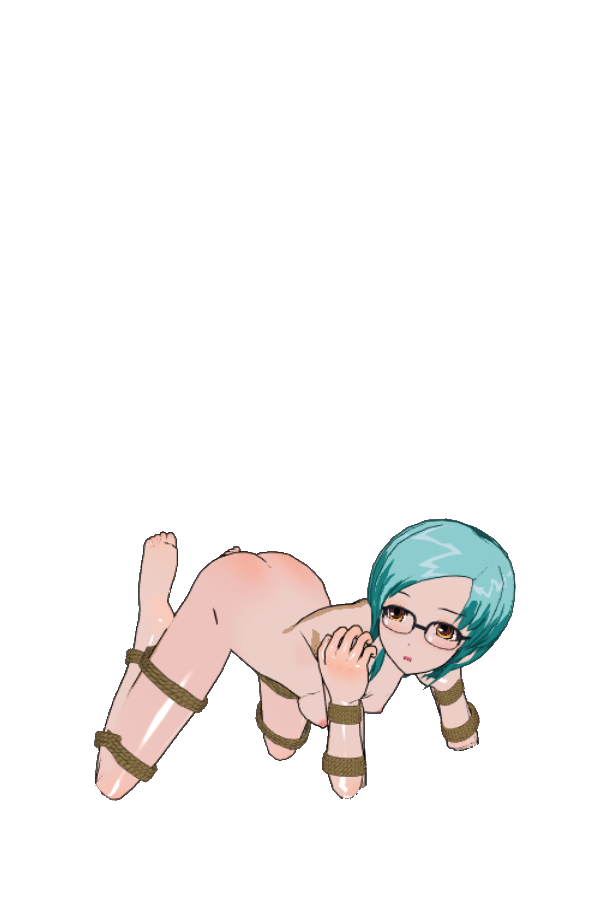
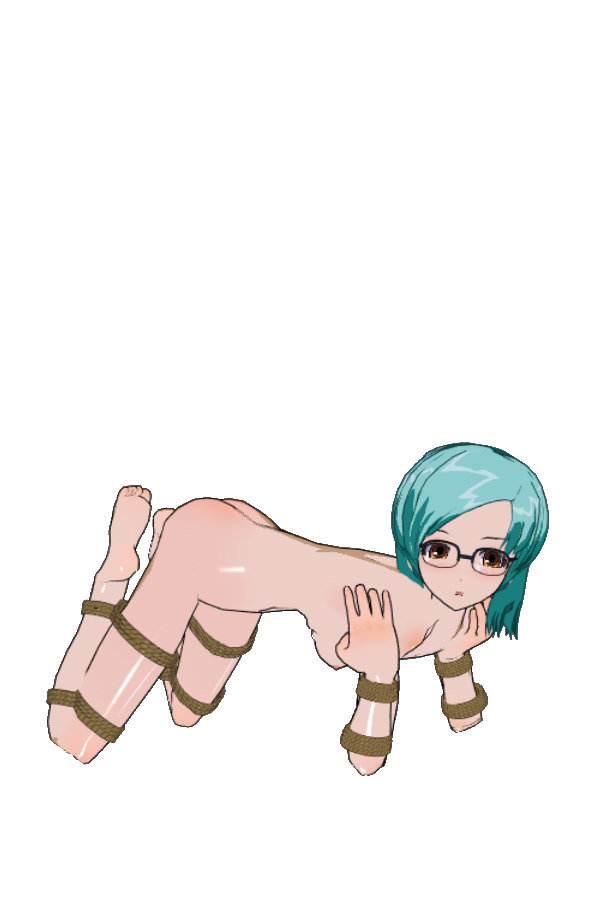
Chapter 10 - More Jennifer + Sidney
Chapter 10 - More Jennifer + Sidney

Changed region(s): [[0.06, 0.4667, 0.93, 0.9022]]

diff --git a/C010_Revenge/SidneyJennifer/Script.js b/C010_Revenge/SidneyJennifer/Script.js
@@ -9,6 +9,10 @@ var C010_Revenge_SidneyJennifer_JenniferCuteDone = false;
 var C010_Revenge_SidneyJennifer_SidneyGone = false;
 var C010_Revenge_SidneyJennifer_JenniferGone = false;
 var C010_Revenge_SidneyJennifer_FightVictory = false;
+var C010_Revenge_SidneyJennifer_CropDone = false;
+var C010_Revenge_SidneyJennifer_IsGagged = false;
+var C010_Revenge_SidneyJennifer_OrgasmDone = false;
+var C010_Revenge_SidneyJennifer_MastubateCount = 0;
 
 // Chapter 10 - Sidney and Jennifer Revenge Load
 function C010_Revenge_SidneyJennifer_Load() {
@@ -67,6 +71,24 @@ function C010_Revenge_SidneyJennifer_Click() {
 		InventoryClick(ClickInv, CurrentChapter, CurrentScreen);
 	}
 	
+	// The heroine can be restrained on stage 400
+	if ((C010_Revenge_SidneyJennifer_CurrentStage == 38) && (ClickInv != "") && (ClickInv != "Player")) {
+
+		// Both heroines react differently to the crop
+		if ((ClickInv == "Crop") && !C010_Revenge_SidneyJennifer_CropDone) {
+			C010_Revenge_SidneyJennifer_CropDone = true;
+			ActorChangeAttitude(-1, 1);
+		}
+
+		// Apply the clicked restrain
+		ActorApplyRestrain(ClickInv);
+		OverridenIntroImage = "";
+		C010_Revenge_SidneyJennifer_IsGagged = ActorIsGagged();
+		if (C010_Revenge_SidneyJennifer_IsGagged) ActorSpecificSetPose("Jennifer", "Dog");
+		if (ClickInv == "Crop") OverridenIntroText = GetText("CropJennifer");
+
+	}
+	
 }
 
 // Chapter 10 - Sidney and Jennifer Revenge - Switch to a provoking pose 
@@ -117,6 +139,7 @@ function C010_Revenge_SidneyJennifer_JenniferDog() {
 
 // Chapter 10 - Sidney and Jennifer Revenge - Jennifer cute
 function C010_Revenge_SidneyJennifer_JenniferCute() {
+	OverridenIntroImage = "";
 	if (!C010_Revenge_SidneyJennifer_JenniferCuteDone) {
 		C010_Revenge_SidneyJennifer_JenniferCuteDone = true;
 		ActorChangeAttitude(1, 0);
@@ -125,21 +148,23 @@ function C010_Revenge_SidneyJennifer_JenniferCute() {
 
 // Chapter 10 - Sidney and Jennifer Revenge - Jennifer bark
 function C010_Revenge_SidneyJennifer_JenniferBark() {
+	OverridenIntroImage = "";
 	ActorSetPose("Bark");
 	CurrentTime = CurrentTime + 50000;
 }
 
 // Chapter 10 - Sidney and Jennifer Revenge - Jennifer crawl
 function C010_Revenge_SidneyJennifer_JenniferCrawl() {
+	OverridenIntroImage = "";
 	ActorSetPose("Dog");
 	CurrentTime = CurrentTime + 50000;
 }
 
 // Chapter 10 - Sidney and Jennifer Revenge - Jennifer untie
 function C010_Revenge_SidneyJennifer_JenniferUntie() {
-	ActorRemoveInventory("TwoRopes");
-	ActorRemoveInventory("Rope");
-	PlayerAddInventory("Rope", 2);
+	OverridenIntroImage = "";
+	ActorUntie();
+	ActorUngag();
 	ActorSetPose("");
 	CurrentTime = CurrentTime + 50000;
 }
@@ -228,6 +253,35 @@ function C010_Revenge_SidneyJennifer_EarlyEnding(EndingType) {
 	C010_Revenge_EarlyEnding_Type = EndingType;
 	if (C010_Revenge_SidneyJennifer_FightVictory) C010_Revenge_EarlyEnding_Type = "SidneyJenniferFightVictory";
 	SetScene(CurrentChapter, "EarlyEnding");
+}
+
+// Chapter 10 - Sidney and Jennifer Revenge - Ungag the current actor
+function C010_Revenge_SidneyJennifer_Ungag() {
+	OverridenIntroImage = "";
+	ActorUngag();
+	CurrentTime = CurrentTime + 50000;
+	C010_Revenge_SidneyJennifer_IsGagged = false;
+}
+
+// Chapter 10 - Sidney and Jennifer Revenge - Masturbate Jennifer
+function C010_Revenge_SidneyJennifer_MasturbateJennifer() {
+
+	// Doesn't work if she's wearing a chastity belt, with the egg and 3 tries, she will orgasm
+	CurrentTime = CurrentTime + 50000;
+	OverridenIntroImage = "";
+	if (!ActorIsChaste()) {
+		C010_Revenge_SidneyJennifer_MastubateCount++;
+		if (ActorHasInventory("VibratingEgg")) {
+			if ((C010_Revenge_SidneyJennifer_MastubateCount >= 3) && !C010_Revenge_SidneyJennifer_OrgasmDone) {
+				ActorAddOrgasm();
+				ActorChangeAttitude(1, 0);
+				C010_Revenge_SidneyJennifer_OrgasmDone = true;
+				OverridenIntroImage = "HallwayFloorOrgasm.jpg";
+				OverridenIntroText = GetText("MasturbateJenniferOrgasm");
+			} else OverridenIntroText = GetText("MasturbateJenniferEgg");
+		} else OverridenIntroText = GetText("MasturbateJenniferNoEgg");
+	}
+
 }
 
 // Chapter 10 - Sidney and Jennifer Revenge - End the chapter, the player is liberated

diff --git a/Common.js b/Common.js
@@ -141,6 +141,7 @@ function ReadCSV(Array, FileName) {
 // Returns a working language if translation isn't fully ready
 function GetWorkingLanguage() {
 	if ((CurrentLanguageTag == "FR") && ((CurrentChapter == "C000_Intro") || (CurrentChapter == "C001_BeforeClass") || (CurrentChapter == "C002_FirstClass") || (CurrentChapter == "C003_MorningDetention") || (CurrentChapter == "C999_Common"))) return "FR";
+	if ((CurrentLanguageTag == "PL") && ((CurrentChapter == "C000_Intro") || (CurrentChapter == "C001_BeforeClass"))) return "PL";
 	if ((CurrentLanguageTag == "CN") && ((CurrentChapter == "C000_Intro") || (CurrentChapter == "C005_GymClass") || (CurrentChapter == "C999_Common"))) return "CN";
 	return "EN";
 }

diff --git a/C008_DramaClass/Heroine/Script.js b/C008_DramaClass/Heroine/Script.js
@@ -92,7 +92,7 @@ function C008_DramaClass_Heroine_Click() {
 		C008_DramaClass_Heroine_CalcParams();
 
 	}
-	
+
 }
 
 // Chapter 8 - Heroine - Sets the global stage and can alter Julia's mood
@@ -234,7 +234,7 @@ function C008_DramaClass_Heroine_Masturbate() {
 		OverridenIntroText = GetText("Orgasm");
 		OverridenIntroImage = "BackgroundOrgasm.jpg";
 	}
-	
+
 }
 
 // Chapter 8 - The heroine can release the player depending of the relationship
